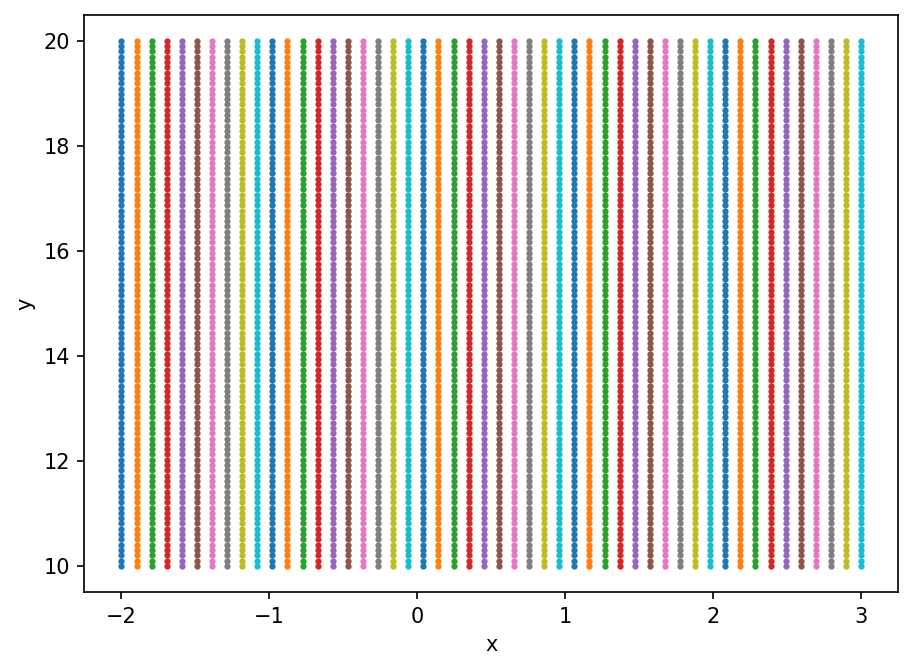
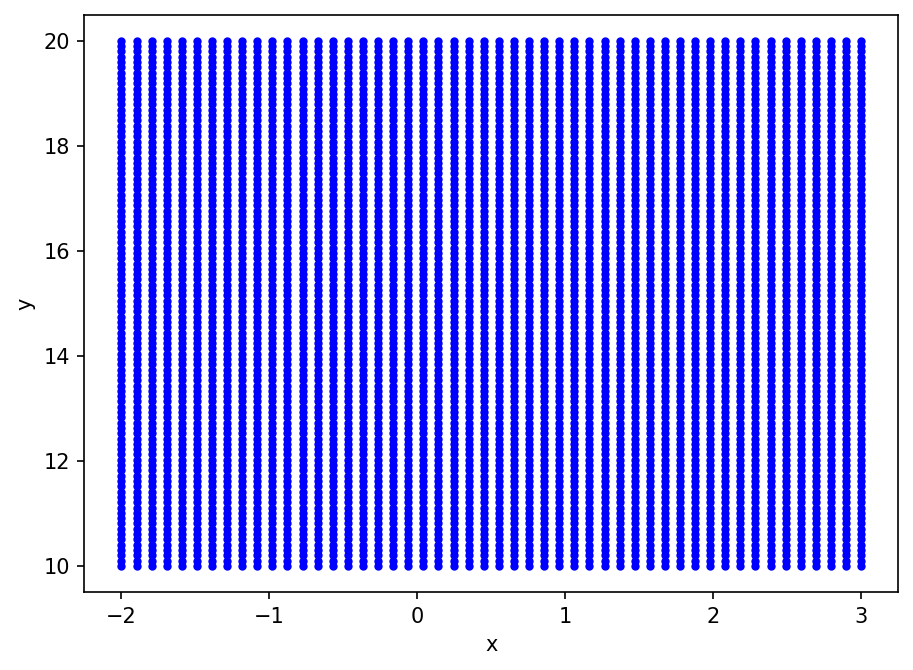
Week 6 lecture: slices bullet; merge challenge slides with single-colour plot

diff --git a/content/week6/lecture.md b/content/week6/lecture.md
@@ -126,6 +126,7 @@ X,Y = np.meshgrid(x,y)
 
 * What are `x.shape` and `X.shape`?
 * What if you print `X[:,0]` and `Y[:,0]`?
+* What if you print other slices? Can you extract a 2D array of points within the meshgrid?
 
 ---
 
@@ -148,15 +149,9 @@ Make a meshgrid where
 * `x` runs from $-2.0$ to $3.0$ with **50** equally spaced points,
 * `y` runs from $10.0$ to $20.0$ with **100** equally spaced points.
 
-Then plot the grid points with `plt.plot(X, Y, 'o')`.
+Then plot the grid points with `plt.plot(X, Y, 'b.')`. It should look like this:
 
-Before you run it: what are `X[0, -1]` and `Y[-1, 0]`?
-
----
-
-### Challenge: what it should look like
-
-![50 x values from -2 to 3 and 100 y values from 10 to 20, plotted as a grid of points.](/static/images/week6/meshgrid_challenge.png){width=70%}
+![50 x values from -2 to 3 and 100 y values from 10 to 20, plotted as a grid of points.](/static/images/week6/meshgrid_challenge.png){width=45%}
 
 ---
 
@@ -174,7 +169,7 @@ print(X[0, 0], X[0, -1])
 print(Y[0, 0], Y[-1, 0])
 ```
 
-To plot it in Spyder: `plt.plot(X, Y, 'o', markersize=2)`
+To plot it in Spyder: `plt.plot(X, Y, 'b.')`
 
 ---
 
